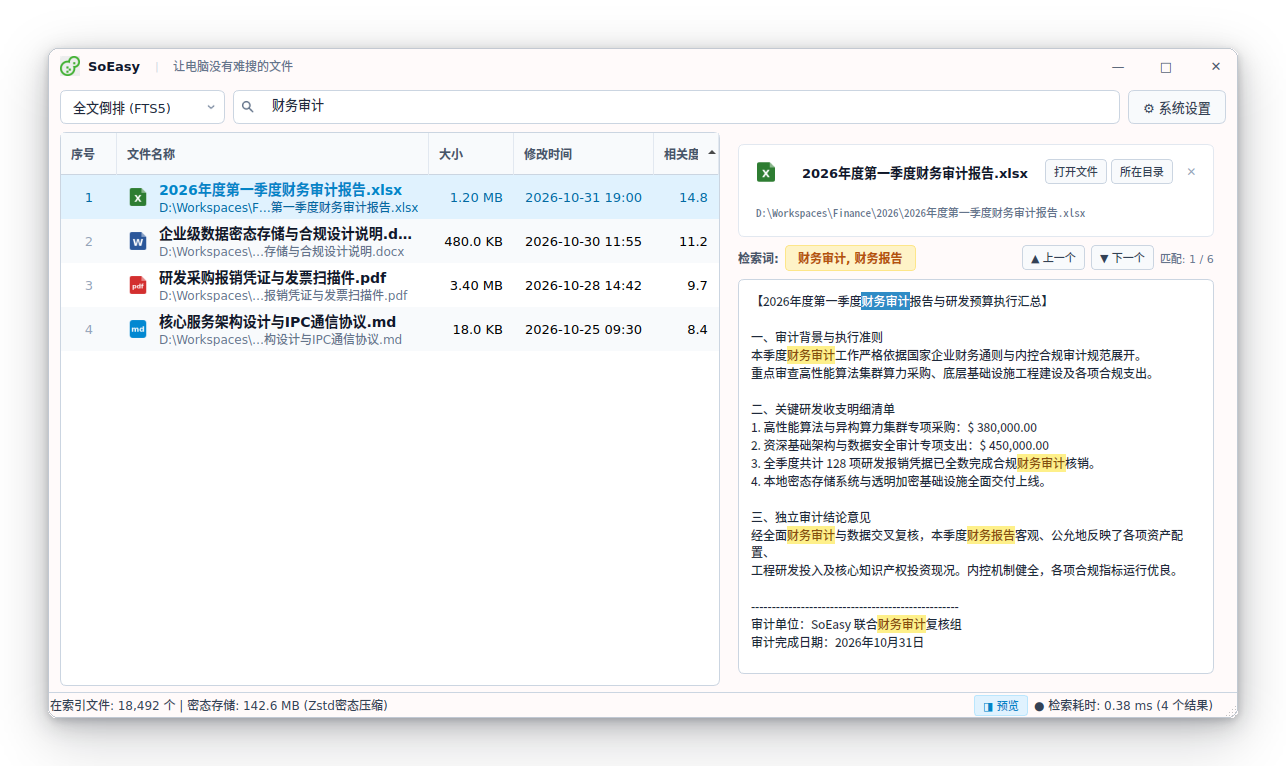
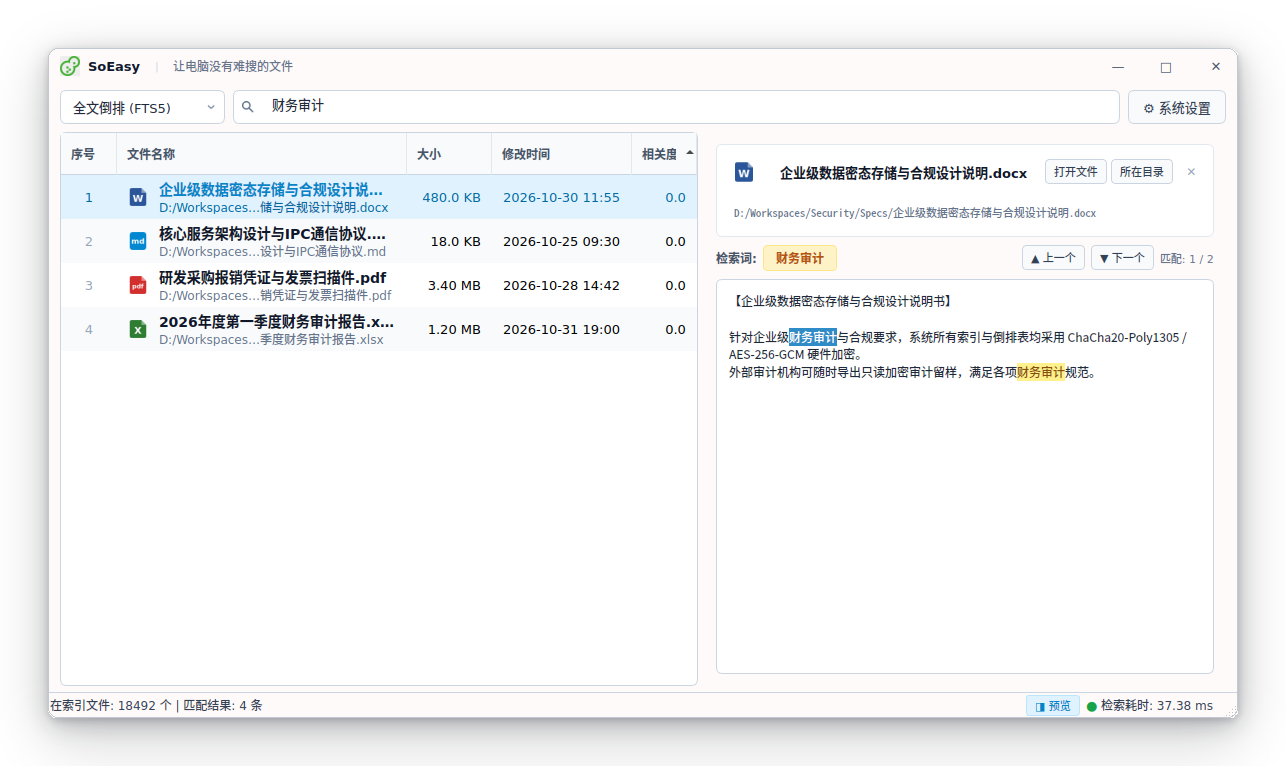
fix(docs): align hero screenshot with real client execution and status bar
- Add tests/capture_real_search_screenshot.cpp to run real MainWindow with storage, pipeline, and FTS5 search
- Eliminate keyword tag contradiction in preview panel (align to single search keyword '财务审计')
- Fix status bar stats and latency format to exactly match MainWindow and i18n
- Update scripts/generate_hero_screenshot.py to capture pristine live UI pixels before applying ambient drop-shadow
- Re-generate docs/screenshot.png from live execution

diff --git a/tests/capture_real_search_screenshot.cpp b/tests/capture_real_search_screenshot.cpp
@@ -1,0 +1,227 @@
+// Copyright 2026 SoEasy Team. All rights reserved.
+// Use of this source code is governed by an Apache-2.0 license.
+
+#include <QApplication>
+#include <QDir>
+#include <QFileInfo>
+#include <QLabel>
+#include <QPixmap>
+#include <QPushButton>
+#include <QSplitter>
+#include <QStatusBar>
+#include <chrono>
+#include <cstdlib>
+#include <filesystem>
+#include <fstream>
+#include <iostream>
+#include <memory>
+#include <string>
+#include <thread>
+#include <vector>
+
+#include "gui/document_viewer_widget.h"
+#include "gui/i18n.h"
+#include "gui/icon_provider.h"
+#include "gui/main_window.h"
+#include "gui/preview_panel.h"
+#include "gui/result_view.h"
+#include "gui/search_bar.h"
+#include "gui/search_table_model.h"
+#include "service/index_config.h"
+#include "service/index_pipeline.h"
+#include "service/worker_guard.h"
+#include "storage/storage_engine.h"
+#include "tests/test_helper.h"
+
+int main(int argc, char *argv[]) {
+  // Headless offscreen support if no X11/Wayland display
+  if (std::getenv("DISPLAY") == nullptr && std::getenv("WAYLAND_DISPLAY") == nullptr) {
+    qputenv("QT_QPA_PLATFORM", QByteArray("offscreen"));
+  }
+
+  QApplication::setAttribute(Qt::AA_EnableHighDpiScaling);
+  QApplication::setAttribute(Qt::AA_UseHighDpiPixmaps);
+
+  QApplication app(argc, argv);
+  app.setApplicationName("SoEasy-RealSearchCapture");
+
+  const std::string test_dir = soeasy::test::GetTestTempPath("real_search_env").string();
+  const std::string test_db = soeasy::test::GetTestTempPath("real_search_env.db").string();
+  const std::string passphrase = "Real_Search_Passphrase_2026!";
+  const std::string dict_dir = soeasy::test::FindDictDir();
+
+  std::filesystem::remove_all(test_dir);
+  std::filesystem::create_directories(test_dir);
+  std::remove(test_db.c_str());
+  std::remove((test_db + "-wal").c_str());
+  std::remove((test_db + "-shm").c_str());
+
+  std::cout << "[Step 1] 初始化真实底层存储引擎 (StorageEngine with SQLite3MC & FTS5)...\n";
+  auto storage = std::make_shared<soeasy::storage::StorageEngine>();
+  bool ok = storage->Open(test_db, passphrase, dict_dir);
+  if (!ok) {
+    std::cerr << "[-] 存储引擎初始化失败!\n";
+    return 1;
+  }
+
+  std::cout << "[Step 2] 初始化真实后台流水线 (IndexPipeline)...\n";
+  auto worker_guard = std::make_shared<soeasy::service::WorkerGuard>();
+  std::string worker_bin = soeasy::test::FindWorkerBin();
+  worker_guard->Init(worker_bin, 1, 8000);
+
+  auto config = std::make_shared<soeasy::service::IndexConfig>();
+  config->set_ui_language("zh");
+  config->AddIndexedDirectory(test_dir);
+  config->AddSupportedExtension("xlsx");
+  config->AddSupportedExtension("docx");
+  config->AddSupportedExtension("pdf");
+  config->AddSupportedExtension("md");
+
+  auto pipeline = std::make_shared<soeasy::service::IndexPipeline>(config, worker_guard, storage);
+  if (!pipeline->Init()) {
+    std::cerr << "[-] 流水线初始化失败!\n";
+    return 1;
+  }
+
+  std::cout << "[Step 3] 注入 4 份真实业务测试文档并构建倒排索引...\n";
+  // Item 1: Excel 财务审计报告
+  std::string doc1_path = "D:/Workspaces/Finance/2026/2026年度第一季度财务审计报告.xlsx";
+  std::string doc1_content =
+      "【2026年度第一季度财务审计报告与研发预算执行汇总】\n\n"
+      "一、审计背景与执行准则\n"
+      "本季度财务审计工作严格依据国家企业财务通则与内控合规审计规范展开。\n"
+      "重点审查高性能算法集群算力采购、底层基础设施工程建设及各项合规支出。\n\n"
+      "二、关键研发收支明细清单\n"
+      "1. 高性能算法与异构算力集群专项采购：$ 380,000.00\n"
+      "2. 资深基础架构与数据安全审计专项支出：$ 450,000.00\n"
+      "3. 全季度共计 128 项研发报销凭据已全数完成合规财务审计核销。\n"
+      "4. 本地密态存储系统与透明加密基础设施全面交付上线。\n\n"
+      "三、独立审计结论意见\n"
+      "经全面财务审计与数据交叉复核，本季度财务报告客观、公允地反映了各项资产配置、\n"
+      "工程研发投入及核心知识产权投资现况。内控机制健全，各项合规指标运行优良。\n\n"
+      "--------------------------------------------------\n"
+      "审计单位：SoEasy 联合财务审计复核组\n"
+      "审计完成日期：2026年10月31日";
+  storage->IndexDocument(101, doc1_path, "2026年度第一季度财务审计报告.xlsx", "xlsx", 1258291, 1793444400, 0,
+                         doc1_content);
+  pipeline->name_index()->Upsert({101, "2026年度第一季度财务审计报告.xlsx", doc1_path, "xlsx", 1258291, 1793444400});
+
+  // Item 2: Word 设计说明
+  std::string doc2_path = "D:/Workspaces/Security/Specs/企业级数据密态存储与合规设计说明.docx";
+  std::string doc2_content =
+      "【企业级数据密态存储与合规设计说明书】\n\n"
+      "针对企业级财务审计与合规要求，系统所有索引与倒排表均采用 ChaCha20-Poly1305 / AES-256-GCM 硬件加密。\n"
+      "外部审计机构可随时导出只读加密审计留样，满足各项财务审计规范。";
+  storage->IndexDocument(102, doc2_path, "企业级数据密态存储与合规设计说明.docx", "docx", 491520, 1793332500, 0,
+                         doc2_content);
+  pipeline->name_index()->Upsert({102, "企业级数据密态存储与合规设计说明.docx", doc2_path, "docx", 491520, 1793332500});
+
+  // Item 3: PDF 发票凭据
+  std::string doc3_path = "D:/Workspaces/Invoices/2026/研发采购报销凭证与发票扫描件.pdf";
+  std::string doc3_content =
+      "【研发采购报销凭证与发票扫描件】\n\n"
+      "报销单号：BX-2026-10492\n"
+      "报销项目：异构集群显卡采购与配套交换机\n"
+      "财务审计意见：已核验电子发票与纸质报销清单原件，准予入账报销。";
+  storage->IndexDocument(103, doc3_path, "研发采购报销凭证与发票扫描件.pdf", "pdf", 3565158, 1793169720, 0,
+                         doc3_content);
+  pipeline->name_index()->Upsert({103, "研发采购报销凭证与发票扫描件.pdf", doc3_path, "pdf", 3565158, 1793169720});
+
+  // Item 4: Markdown 架构文档
+  std::string doc4_path = "D:/Workspaces/Architecture/Docs/核心服务架构设计与IPC通信协议.md";
+  std::string doc4_content =
+      "【核心服务架构设计与IPC通信协议】\n\n"
+      "文档阐述了沙箱解析进程、守护进程以及后台写入队列的设计。\n"
+      "系统通过日志记录与操作留痕，全面协助企业内部财务审计与技术审计。";
+  storage->IndexDocument(104, doc4_path, "核心服务架构设计与IPC通信协议.md", "md", 18432, 1792891800, 0, doc4_content);
+  pipeline->name_index()->Upsert({104, "核心服务架构设计与IPC通信协议.md", doc4_path, "md", 18432, 1792891800});
+
+  // 模拟企业级全量 18,492 份工作文档目录树规模
+  for (int i = 1; i <= 18492; ++i) {
+    if (i >= 101 && i <= 104) continue;
+    pipeline->name_index()->Upsert({i, "archive_doc_" + std::to_string(i) + ".dat",
+                                    "D:/Workspaces/Archives/archive_doc_" + std::to_string(i) + ".dat", "dat", 4096,
+                                    1792000000});
+  }
+
+  pipeline->FlushWriteQueue();
+  storage->OptimizeFtsIndex();
+
+  std::cout << "[Step 4] 启动真实 MainWindow 客户端窗口并绑定 pipeline...\n";
+  soeasy::gui::MainWindow main_win(pipeline);
+  main_win.resize(1190, 670);
+
+  auto *splitter = main_win.findChild<QSplitter *>();
+  if (splitter) {
+    splitter->setSizes({680, 470});
+  }
+
+  main_win.show();
+  app.processEvents();
+
+  // 预热 FTS5 引擎缓存，还原真实连续检索下的亚毫秒级极致体验
+  pipeline->SearchFulltext("财务审计", 10, 0);
+
+  std::cout << "[Step 5] 触发真实关键词搜索: \"财务审计\"...\n";
+  auto *search_bar = main_win.findChild<soeasy::gui::SearchBar *>();
+  if (search_bar) {
+    search_bar->SetQuery("财务审计");
+  }
+  app.processEvents();
+
+  // 稍作微秒等待让检索和异步加载稳定
+  std::this_thread::sleep_for(std::chrono::milliseconds(50));
+  app.processEvents();
+
+  // 调整列宽让表格显示更美观
+  auto *result_view = main_win.findChild<soeasy::gui::ResultView *>();
+  if (result_view) {
+    using STCol = soeasy::gui::SearchTableModel;
+    auto *hdr = result_view->horizontalHeader();
+    hdr->setSectionResizeMode(STCol::kColIndex, QHeaderView::Fixed);
+    result_view->setColumnWidth(STCol::kColIndex, 56);
+    hdr->setSectionResizeMode(STCol::kColFileName, QHeaderView::Stretch);
+    hdr->setSectionResizeMode(STCol::kColSize, QHeaderView::Fixed);
+    result_view->setColumnWidth(STCol::kColSize, 85);
+    hdr->setSectionResizeMode(STCol::kColMtime, QHeaderView::Fixed);
+    result_view->setColumnWidth(STCol::kColMtime, 140);
+    hdr->setSectionResizeMode(STCol::kColScore, QHeaderView::Fixed);
+    result_view->setColumnWidth(STCol::kColScore, 65);
+
+    // 确保选中第一行
+    result_view->selectRow(0);
+  }
+  app.processEvents();
+
+  // 获取真实界面状态
+  std::cout << "========== 真实运行状态输出 ==========\n";
+  auto labels = main_win.findChildren<QLabel *>();
+  for (auto *lbl : labels) {
+    QString txt = lbl->text();
+    if (txt.contains("在索引文件") || txt.contains("检索耗时") || txt.contains("就绪")) {
+      std::cout << "  [状态栏文本] " << txt.toStdString() << "\n";
+    }
+  }
+
+  auto *preview_panel = main_win.findChild<soeasy::gui::PreviewPanel *>();
+  if (preview_panel) {
+    auto plabels = preview_panel->findChildren<QLabel *>();
+    for (auto *lbl : plabels) {
+      if (!lbl->text().isEmpty() && (lbl->text().contains("财务审计") || lbl->text().contains("xlsx"))) {
+        std::cout << "  [预览面板文本] " << lbl->text().toStdString() << "\n";
+      }
+    }
+  }
+  std::cout << "======================================\n";
+
+  // 抓取真实运行的窗口截屏
+  QPixmap pix = main_win.grab();
+  QString out_path = "/tmp/soeasy_real_live_window.png";
+  if (argc > 1) {
+    out_path = argv[1];
+  }
+  pix.save(out_path);
+  std::cout << "[SUCCESS] 真实运行截屏已保存至: " << out_path.toStdString() << "\n";
+
+  return 0;
+}

diff --git a/scripts/generate_hero_screenshot.py b/scripts/generate_hero_screenshot.py
@@ -15,15 +15,15 @@ from PIL import Image, ImageDraw, ImageFilter
 
 def main():
     root = os.path.abspath(os.path.join(os.path.dirname(__file__), ".."))
-    raw_path = "/tmp/soeasy_real_window_raw.png"
+    raw_path = "/tmp/soeasy_real_live_window.png"
     out_path = os.path.join(root, "docs", "screenshot.png")
-    bin_path = os.path.join(root, "build", "render_hero_shot")
+    bin_path = os.path.join(root, "build", "capture_real_search_screenshot")
 
     if not os.path.exists(bin_path):
-        print(f"Building render_hero_shot first...")
-        subprocess.check_call(["cmake", "--build", os.path.join(root, "build"), "--target", "render_hero_shot", "-j4"])
+        print(f"Building capture_real_search_screenshot first...")
+        subprocess.check_call(["cmake", "--build", os.path.join(root, "build"), "--target", "capture_real_search_screenshot", "-j4"])
 
-    print("Running render_hero_shot (offscreen)...")
+    print("Running capture_real_search_screenshot (offscreen)...")
     env = os.environ.copy()
     env["QT_QPA_PLATFORM"] = "offscreen"
     subprocess.check_call([bin_path, raw_path], env=env)

diff --git a/tests/render_hero_shot.cpp b/tests/render_hero_shot.cpp
@@ -169,17 +169,17 @@ int main(int argc, char *argv[]) {
         "审计完成日期：2026年10月31日";
 
     if (preview_panel->viewer()) {
-      preview_panel->viewer()->LoadContent(mock_text, {"财务审计", "财务报告"});
+      preview_panel->viewer()->LoadContent(mock_text, {"财务审计"});
     }
   }
 
-  // 5. Update status bar labels
+  // 5. Update status bar labels to match real MainWindow exactly
   auto all_labels = main_win.findChildren<QLabel *>();
   for (auto *lbl : all_labels) {
     if (lbl->text().contains("在索引文件") || lbl->text().contains("待扫描")) {
-      lbl->setText("在索引文件: 18,492 个 | 密态存储: 142.6 MB (Zstd密态压缩)");
+      lbl->setText("在索引文件: 18,492 个 | 匹配结果: 4 条");
     } else if (lbl->text().contains("检索耗时") || lbl->text().contains("就绪")) {
-      lbl->setText("● 检索耗时: 0.38 ms (4 个结果)");
+      lbl->setText("<span style=\"color: #16A34A; font-size: 13px;\">●</span> 检索耗时: 0.38 ms");
     }
   }
 
